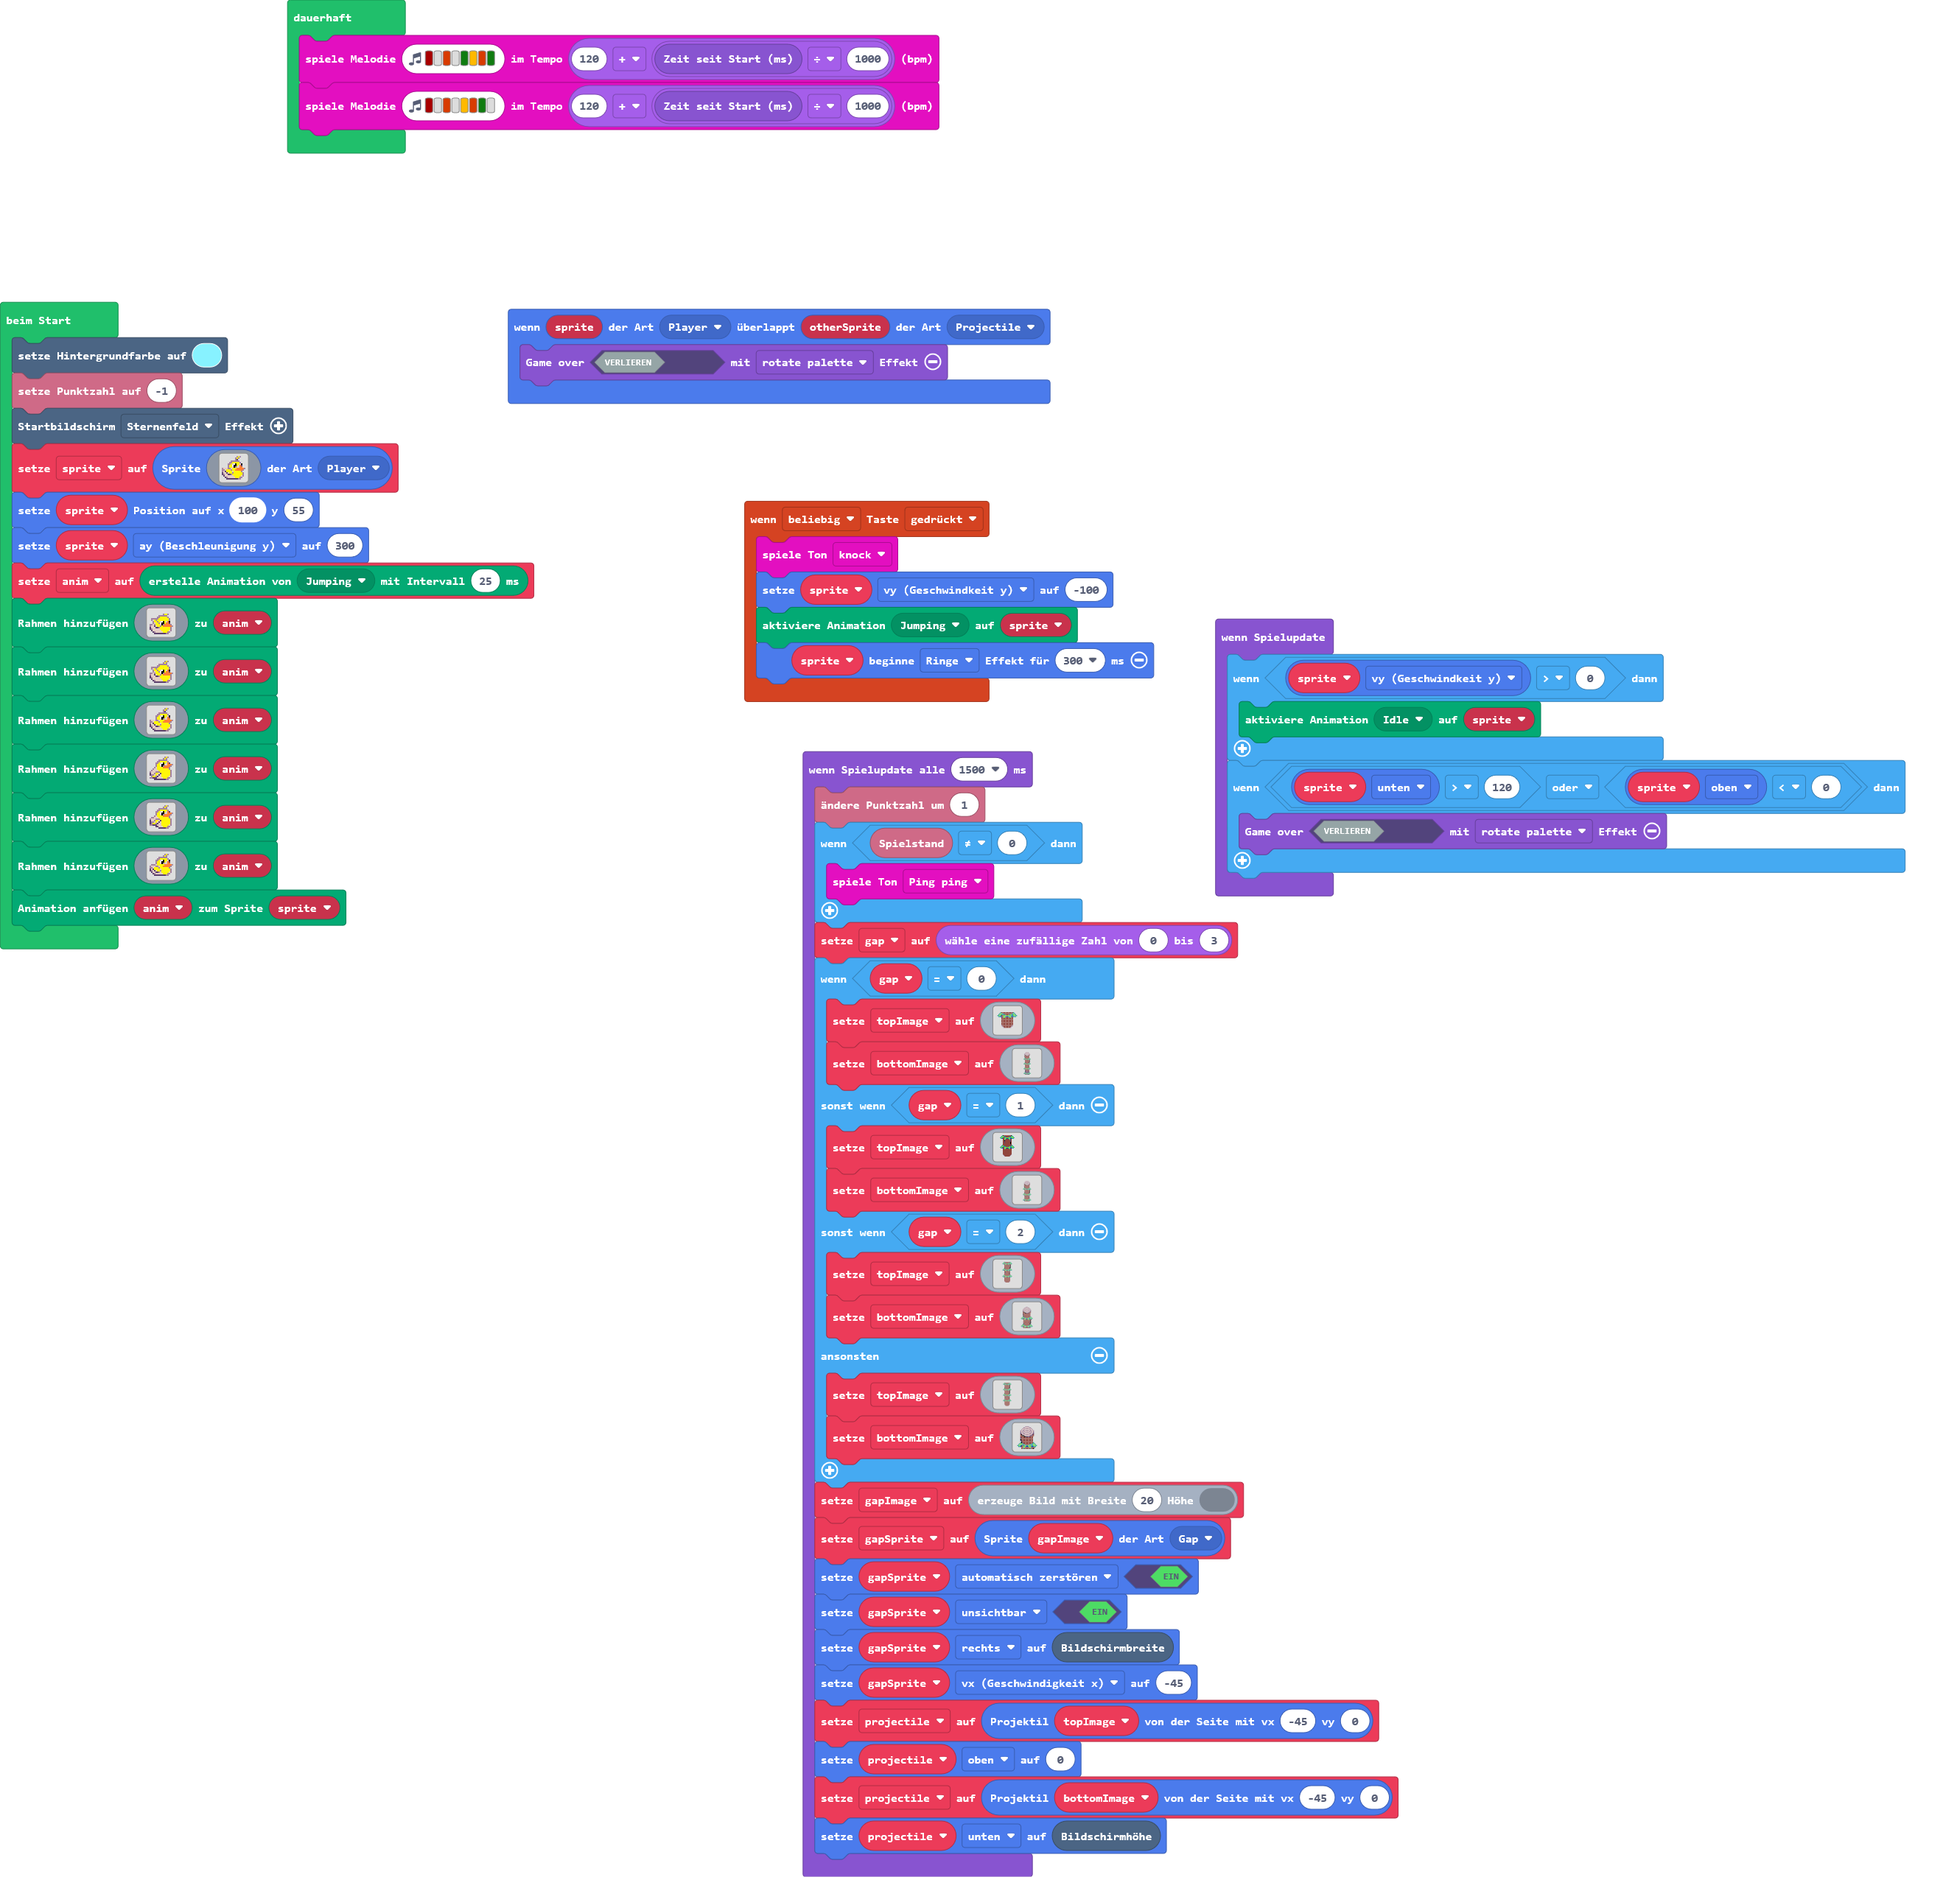
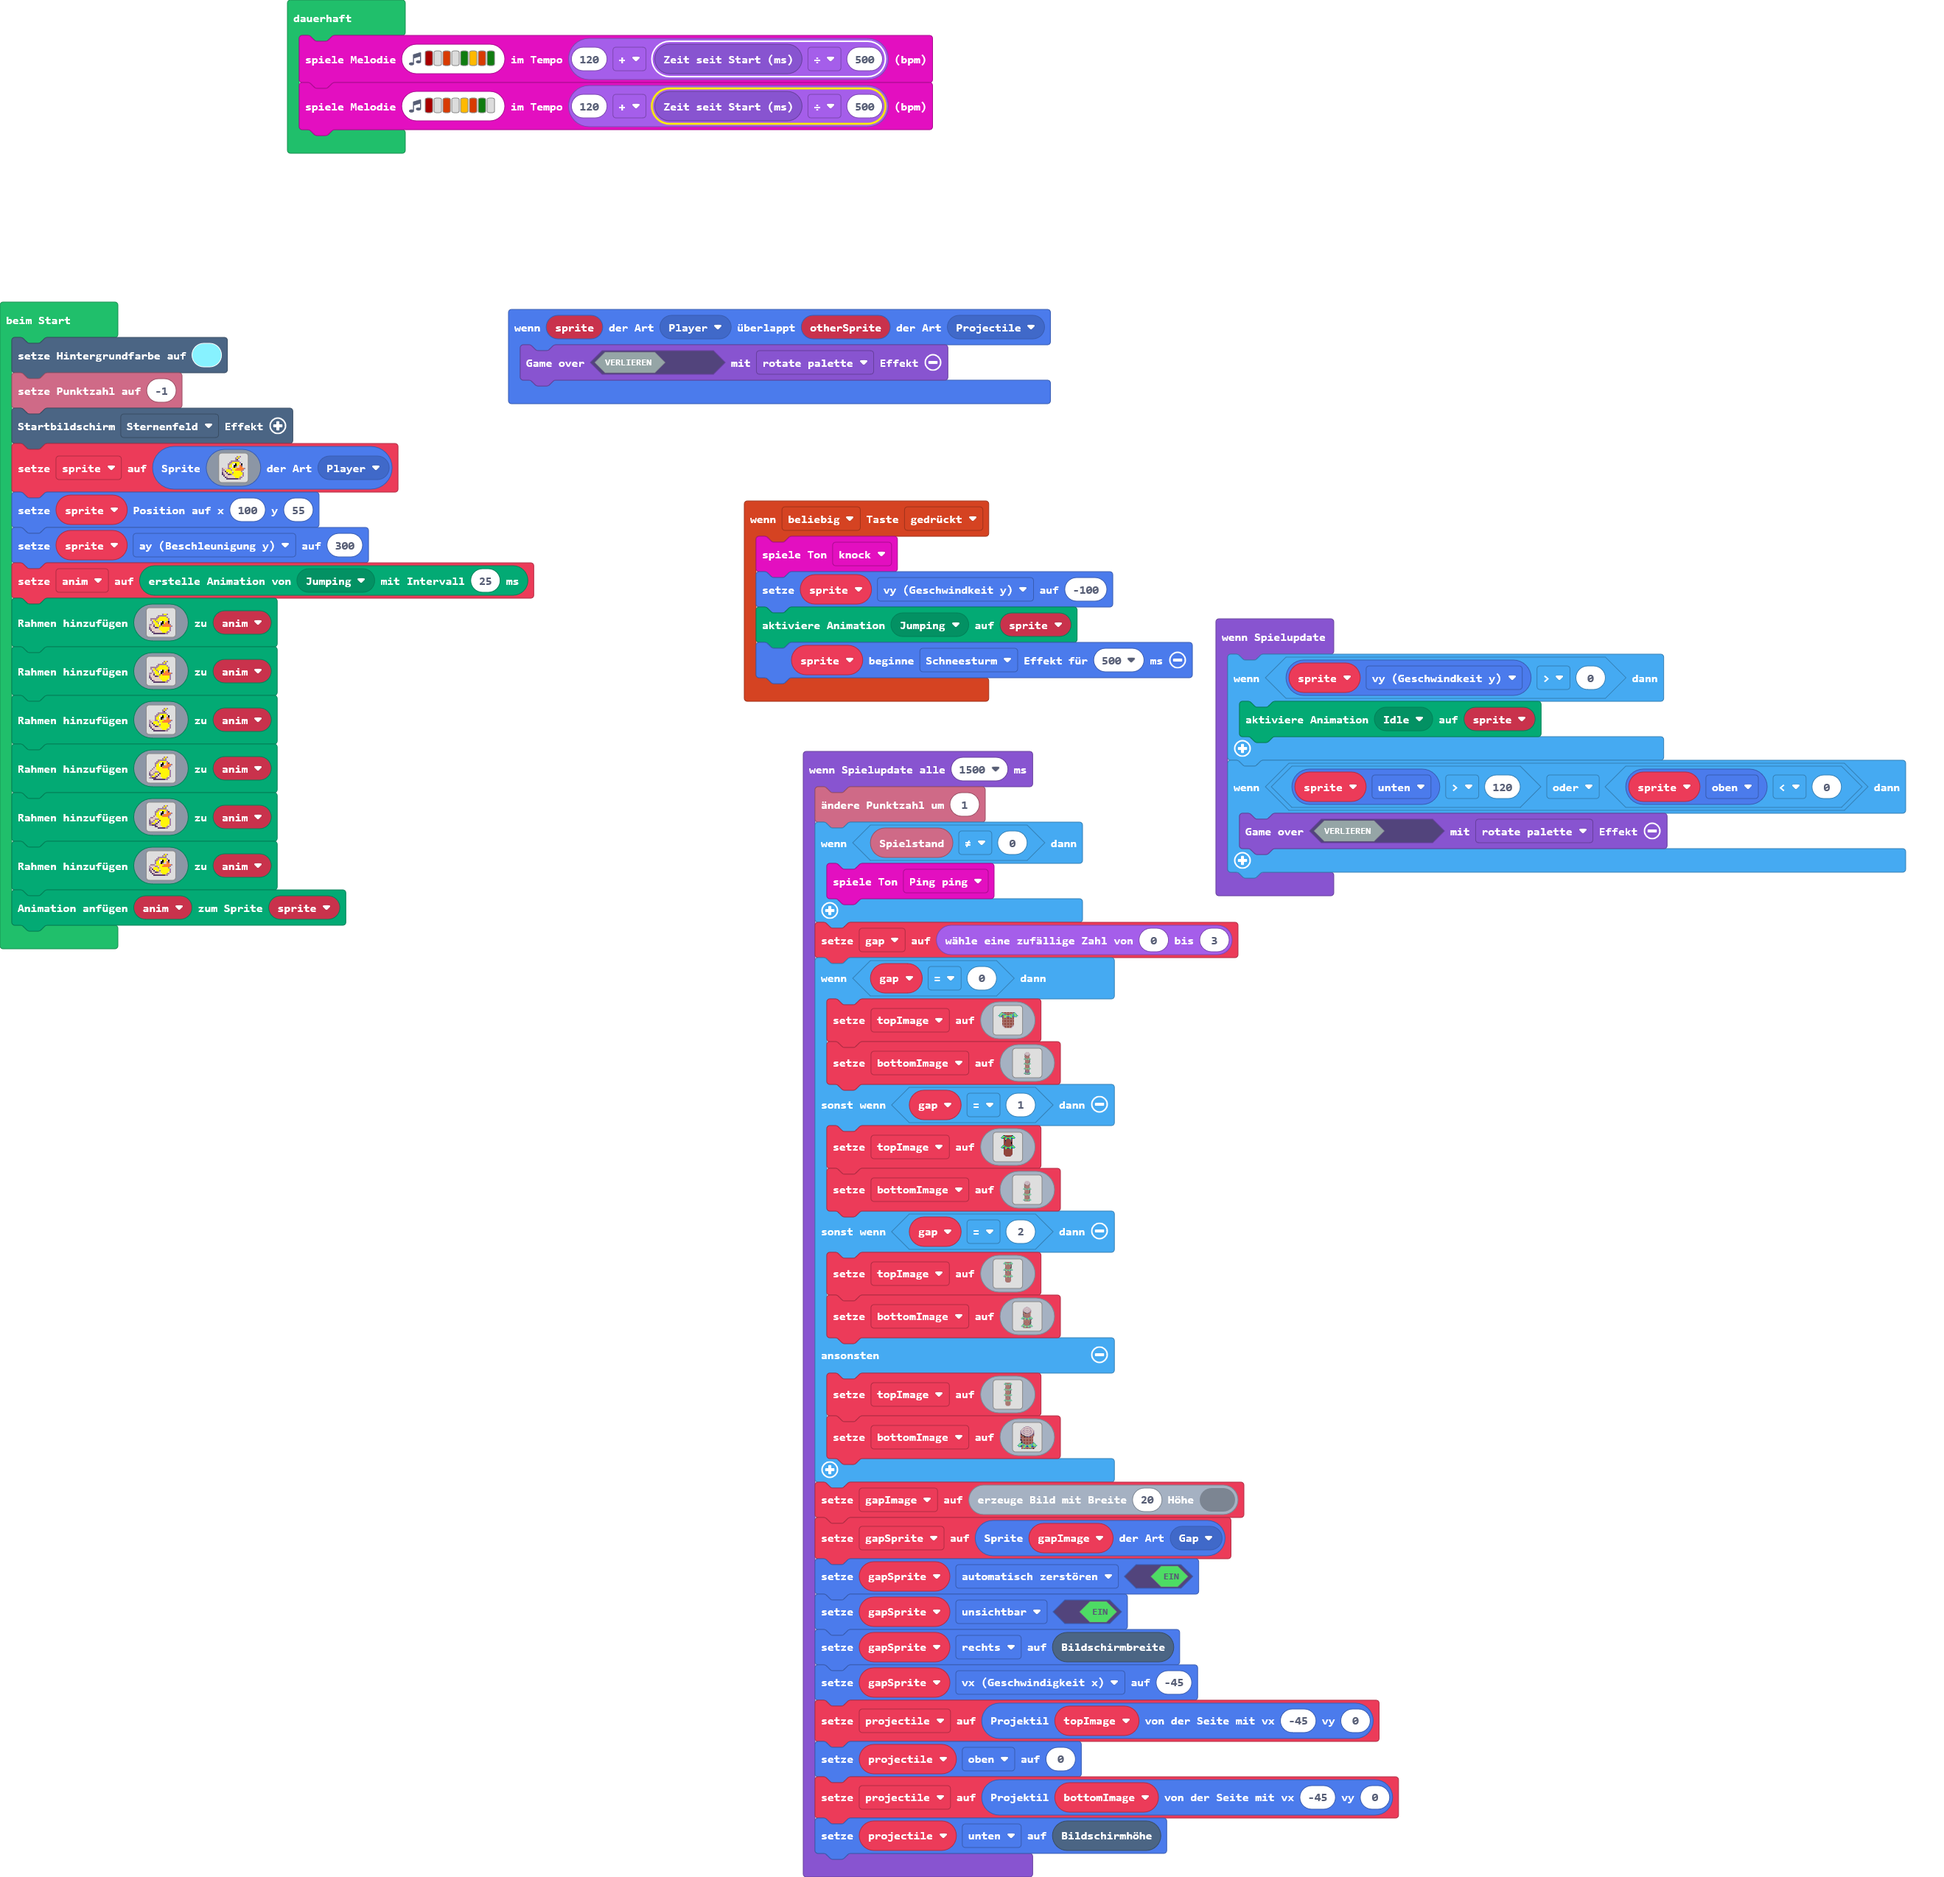
melody speeds up faster

diff --git a/main.ts b/main.ts
@@ -13,7 +13,7 @@ controller.anyButton.onEvent(ControllerButtonEvent.Pressed, function () {
     music.knock.play()
     sprite.vy = -100
     animation.setAction(sprite, ActionKind.Jumping)
-    sprite.startEffect(effects.rings, 300)
+    sprite.startEffect(effects.blizzard, 500)
 })
 let projectile: Sprite = null
 let gapSprite: Sprite = null
@@ -538,6 +538,6 @@ game.onUpdateInterval(1500, function () {
     projectile.bottom = scene.screenHeight()
 })
 forever(function () {
-    music.playMelody("C5 - B - G A B G ", 120 + game.runtime() / 1000)
-    music.playMelody("C5 - B - A B G - ", 120 + game.runtime() / 1000)
+    music.playMelody("C5 - B - G A B G ", 120 + game.runtime() / 500)
+    music.playMelody("C5 - B - A B G - ", 120 + game.runtime() / 500)
 })
